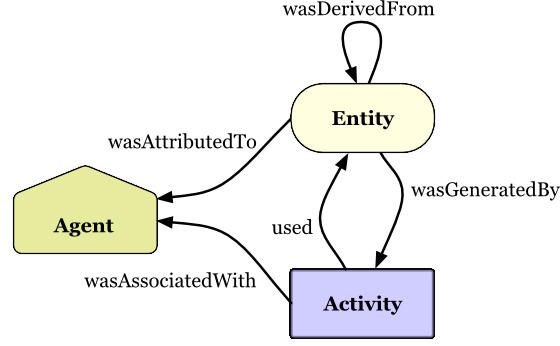
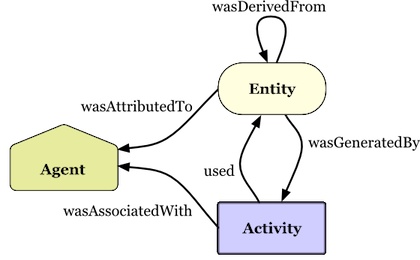
update vignette

diff --git a/docs/vignette.md b/docs/vignette.md
@@ -106,7 +106,12 @@ def create_activity(
 ```
 
 + [`models/`](../src/prov_service/models/): auto-generated code—no obvious reason to mess with these classes
-+ [`graph/`](../src/prov_service/graph/): _manually authored (by me)_, internal/core controllers and models for interacting with a graph database
++ [`graph/`](../src/prov_service/graph/): _manually authored (by me, mostly, with some contributions from collaborators)_, internal/core controllers and models for interacting with a graph database
+
+> [!INFO]
+> This is where most of the interesting stuff happens. Some of it is a bit broken with the migration from `py2neo` to `neo4j`, but the overall setup is functional. For ongoing usage, this is where most of the development attention should be focused within this package.
+
+
 + [`mock/`](../src/prov_service/mock/): _manually authored (by collaborator)_, assorted classes to populate a graph with represenative nodes and relationships based on a predefined data model (found in [`mock/dict.py`](../src/prov_service/mock/dict.py))
 
 ### Other modules:
@@ -160,6 +165,8 @@ Once the server is running (using the `uv` command above), we can interact with 
 http://localhost:8080/rest/v1/ui/
 ```
 
+If we scroll down to the `POST /activities` section, there should be an option to "Try it out"—clicking this button should expose a screen that looks like this (with an "Execute" button).
+
 ![demo post request](../img/postdemo.png)
 
 
@@ -173,16 +180,22 @@ http://localhost:7474
 
 By running the Cypher query below in Neo4j, we can see the graph corresponding to the created activity.
 
+```cypher
+MATCH (n)-[r]-(m) RETURN n, r, m
+```
+
 ![demo neo4j graph](../img/graphdemo.png)
 
 > [!CAUTION]
-> Unforunately, the query functionality available through various `GET` endopints does not seem to be working.
+> Unforunately, the query functionality available through various `GET` endopints does not seem to be working. This bug will hopefully be corrected in future versions.
 
 ## Future Directions
 
 A few thoughts for where I might try to take this package, if presented with good reasons to continue maintaing it:
 
-* I was hoping to build and test a more direct connection with the nf-prov plugin for Nextflow pipelines. In the interest of time, I converted the output of their demo pipeline from BCO format into a compatible JSON.
+* Addressing all of the limitations enumerated in the **Preface**...
+* I was hoping to build and test a more direct connection with the [`nf-prov` plugin](https://github.com/nextflow-io/nf-prov) for Nextflow pipelines. Whether on the server or client side, I'd like to provide some sort of adapter between the `nf-prov`'s preffered format (which appears to be either a [BioCompute Object (BCO)](https://biocomputeobject.org/) or a more generic directed acyclic graph) and the models used by this service.
 * Related to the previous point, it would be worth creating a dedicated API _client_ package that could be called via a pipeline or plug-in to submit requests to the provenance service.
+* It would be fun to extract (and update) the UI elements I previously built as part of a [portal project](https://github.com/Sage-Bionetworks/sagebio-collaboration-portal/tree/develop/client/), and try to provide a more generic and re-usable widget for creating and viewing provenance records.
 
 
